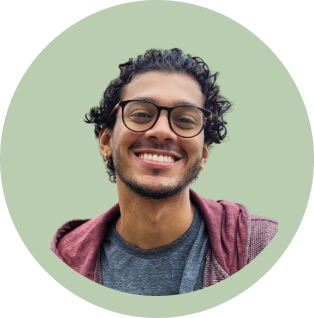
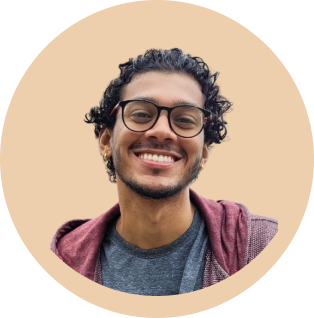
animacao

diff --git a/components/Hero.js b/components/Hero.js
@@ -12,10 +12,10 @@ function Hero() {
         <div className="flex items-center h-full pt-8 ">
           <div className="flex-1 flex flex-col items-center lg:items-center ">
             <div className="ml-4 p-2 ">
-              <p className="text-lg text-accent text-md mb-[22px] text-thi2">
+              <p className="text-lg text-accent text-md mb-[22px] text-thi5">
                 Hey, I'm Thiago! 👋
               </p>
-              <h1 className="text-thi1 font-[satisfy] text-4xl leading-[44px] md:text-5xl md:leading-tight lg:text-7xl lg:leading-[1.2] font-bold md:tracking-[-2px]">
+              <h1 className="text-thi5 font-[satisfy] text-4xl leading-[44px] md:text-5xl md:leading-tight lg:text-7xl lg:leading-[1.2] font-bold md:tracking-[-2px]">
                 I Build & Design <br />
                 Beautifuls
                 <br /> Web Systems.
@@ -29,12 +29,13 @@ function Hero() {
               </button>
             </div>
           </div>
-          <div className=" min-h-screen lg:flex flex-1 justify-center items-center  bg-gray-50">
+          <div className=" min-h-screen lg:flex flex-1 justify-center items-center  ">
             <div className="relative w-full max-w-lg px-16">
-              <div className="absolute top-0 -left-4 w-72 h-72 bg-purple-300 rounded-full mix-blend-multiply"></div>
-              <div className="absolute top-0 -right-4 w-72 h-72 bg-yellow-300 rounded-full mix-blend-multiply"></div>
-              <div className="absolute -bottom-8 left-20 w-72 h-72 bg-pink-300 rounded-full mix-blend-multiply"></div>
-              <div className="opacity-0">
+              <div className="absolute top-0 -left-4 w-72 h-72 bg-thi3 rounded-full mix-blend-multiply filter blur-xl opacity-70 animate-blob"></div>
+              <div className="absolute top-0 right-10 w-72 h-72 bg-thi2 rounded-full mix-blend-multiply filter blur-xl opacity-70 animate-blob animation-delay-2000"></div>
+              {/* <div className="absolute -bottom-4 -right-4 w-72 h-72 bg-thi4 rounded-full mix-blend-multiply filter blur-xl opacity-70 animate-blob animation-delay-2000"></div> */}
+              <div className="absolute -bottom-8 left-20 w-72 h-72 bg-thi4 rounded-full mix-blend-multiply filter blur-xl opacity-70 animate-blob animation-delay-4000"></div>
+              <div className="opacity-100">
                 <Image
                   src={WomanImg}
                   alt=""

diff --git a/components/Navbar.js b/components/Navbar.js
@@ -60,16 +60,16 @@ export default function Navbar() {
   return (
     <Popover className="relative ">
       <div className=" mx-auto px-8 py-2 ">
-        <div className="flex justify-between items-center p-4 md:justify-start md:space-x-10 ">
+        <div className="flex justify-between items-center p-4 md:justify-start md:space-x-10 border-b-2 border-thi3">
           <div className="flex justify-start lg:w-0 lg:flex-1 ">
             <Link href="#">
-              <a className="font-[satisfy] text-4xl  text-thi1 hover:text-thi2 ">
+              <a className="font-[satisfy] text-4xl  text-thi5 hover:text-thi2 ">
                 Coding With Thi.
               </a>
             </Link>
           </div>
           <div className="-mr-2 -my-2 md:hidden">
-            <Popover.Button className="bg-thi2 rounded-md p-2 inline-flex items-center justify-center text-thi1 hover:text-thi5 hover:bg-thi1 hover:border hover:border-thi3 border border-thi1 focus:outline-none focus:ring-2 focus:ring-inset focus:ring-indigo-500">
+            <Popover.Button className="bg-thi2 rounded-md p-2 inline-flex items-center justify-center text-thi5 hover:text-thi5 hover:bg-thi1 hover:border hover:border-thi3 border border-thi1 focus:outline-none focus:ring-2 focus:ring-inset focus:ring-indigo-500">
               <span className="sr-only">Abrir Menu</span>
               <MenuIcon className="h-6 w-6" aria-hidden="true" />
             </Popover.Button>
@@ -78,7 +78,7 @@ export default function Navbar() {
           <div className="hidden md:flex items-center justify-end md:flex-1 lg:w-0 ">
             {menu.map((item) => (
               <Link href={item.href} key={item.name}>
-                <a className="text-base font-medium text-thi1 hover:text-thi2 ml-5 mt-3 mb-3">
+                <a className="text-base font-medium text-thi5 hover:text-thi2 ml-5 mt-3 mb-3">
                   {item.name}
                 </a>
               </Link>

diff --git a/tailwind.config.js b/tailwind.config.js
@@ -42,11 +42,11 @@ module.exports = {
       fuchsia: colors.fuchsia,
       pink: colors.pink,
       rose: colors.rose,
-      thi1: "#f3e8ee",
-      thi2: "#bacdb0",
-      thi3: "#729b79",
-      thi4: "#475b63",
-      thi5: "#2e2c2f",
+      thi1: "#FEFAE0",
+      thi2: "#DDA15E",
+      thi3: "#BC6C25",
+      thi4: "#606C38",
+      thi5: "#283618",
     }),
     columns: {
       auto: "auto",
@@ -119,6 +119,7 @@ module.exports = {
       ping: "ping 1s cubic-bezier(0, 0, 0.2, 1) infinite",
       pulse: "pulse 2s cubic-bezier(0.4, 0, 0.6, 1) infinite",
       bounce: "bounce 1s infinite",
+      blob: "blob 7s infinite",
     },
     aspectRatio: {
       auto: "auto",
@@ -574,6 +575,20 @@ module.exports = {
       full: "100%",
     }),
     keyframes: {
+      blob: {
+        "0%": {
+          transform: "translate(0px, 0px) scale(1)",
+        },
+        "33%": {
+          transform: "translate(30px, -50px) scale(1.1)",
+        },
+        "66%": {
+          transform: "translate(-20px, 20px) scale(0.9)",
+        },
+        "100%": {
+          transform: "tranlate(0px, 0px) scale(1)",
+        },
+      },
       spin: {
         to: {
           transform: "rotate(360deg)",

diff --git a/styles/globals.css b/styles/globals.css
@@ -11,3 +11,14 @@
     font-family: "satisfy";
     src: url("../public/fonts/Satisfy-Regular.ttf");
   }
+
+  @layer utilities {
+    .animation-delay-2000 {
+      animation-delay: 2s;
+    }
+
+    .animation-delay-4000 {
+      animation-delay: 4s;
+    }
+
+  }

diff --git a/pages/index.js b/pages/index.js
@@ -3,7 +3,7 @@ import Navbar from "../components/Navbar";
 
 export default function Home() {
   return (
-    <div className="bg-thi5 lg:px-12">
+    <div className="bg-thi1 lg:px-12">
       <Navbar />
       <Hero />
     </div>
